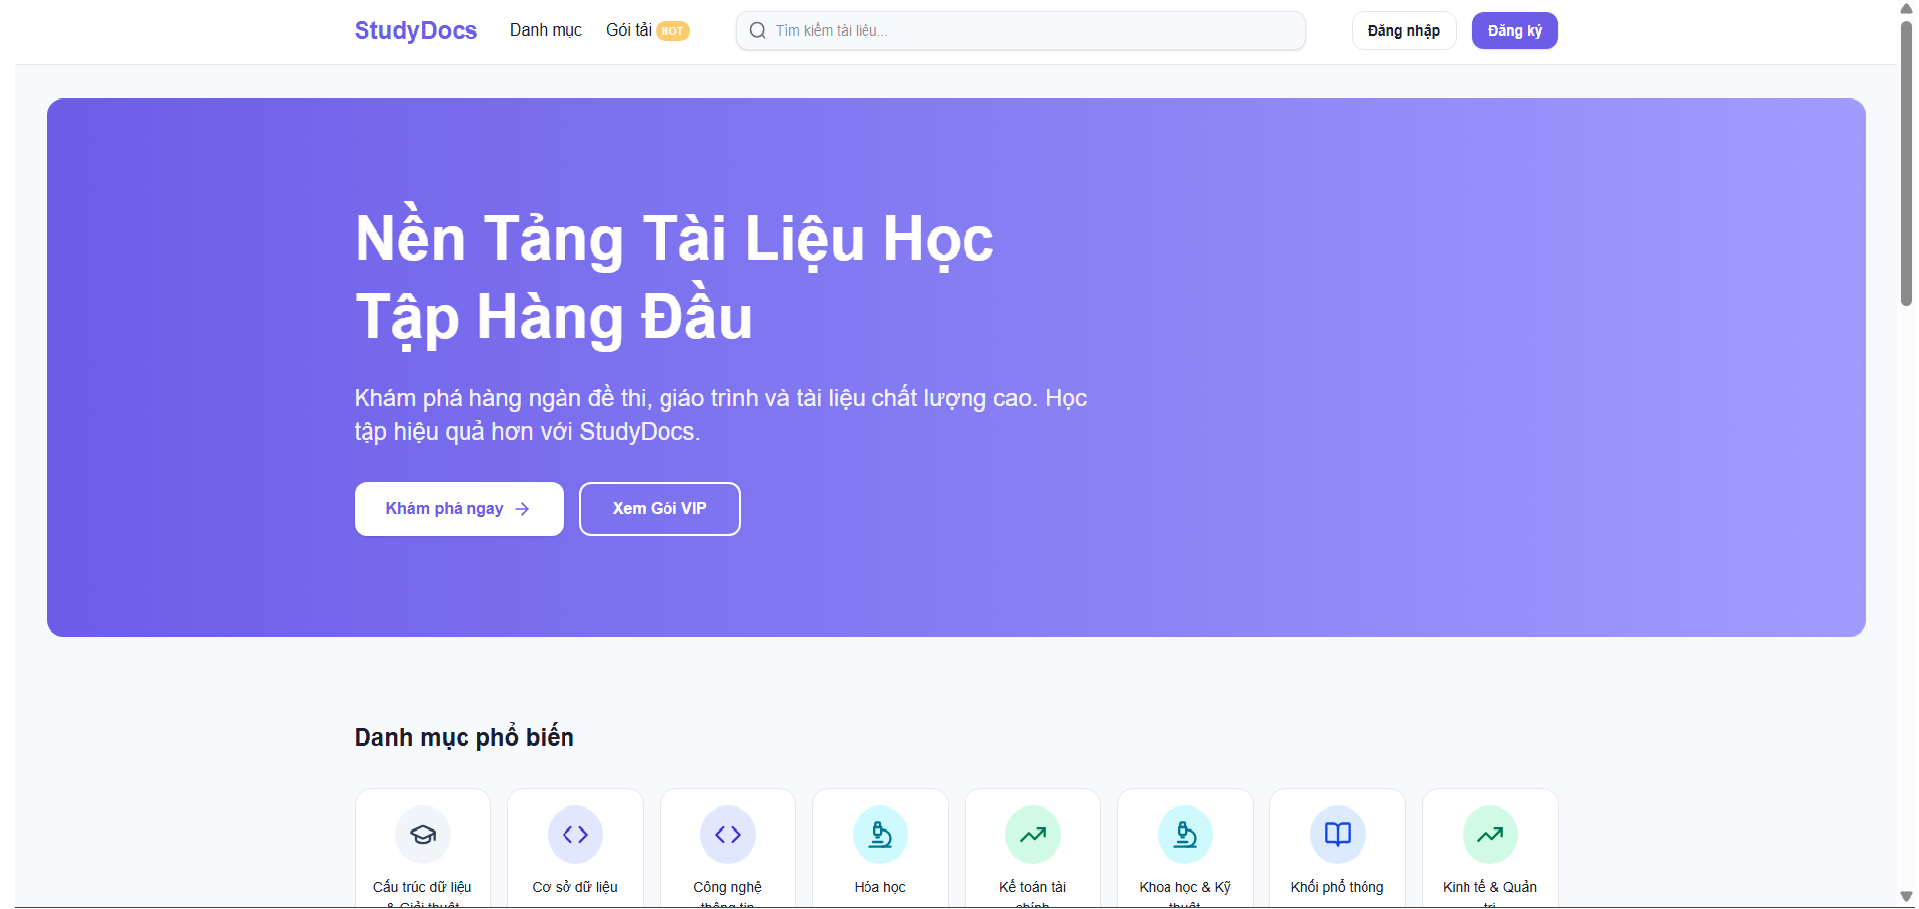
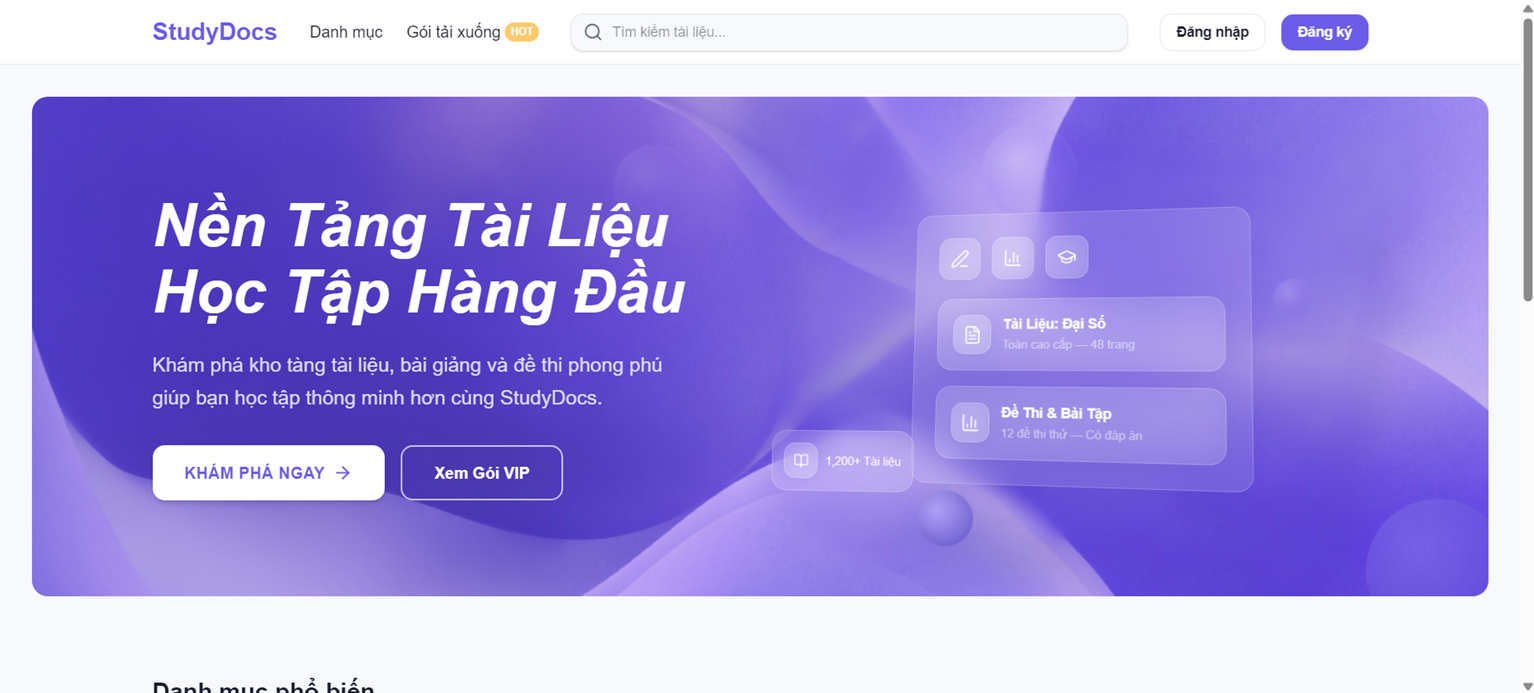
19/6

diff --git a/README.md b/README.md
@@ -61,6 +61,8 @@ flowchart LR
     API --> VNPay["VNPay\nPayment Gateway"]
     API --> Mail["Gmail SMTP\nEmail Service"]
 ```
+
+```
 STUDYDOCS/
 ├── docs/
 │   ├── screenshots/                # README screenshots
@@ -443,14 +445,6 @@ docker compose logs -f    # Stream logs
    Then update the IPN URL in your VNPay Sandbox merchant dashboard.
 6. **Never commit `.env` files** — they contain secret keys. Only `.env.example` should be in version control.
 7. **Supabase setup** — this project requires a configured Supabase project. See `backend/prisma/schema.prisma` for the database schema and `backend/prisma/seed.ts` for initial data.
-
----
-
-## 👥 Contributors
-
-| Name | Student ID | Role |
-|------|-----------|------|
-| *(Fill in)* | *(ID)* | *(Role)* |
 
 ---
 